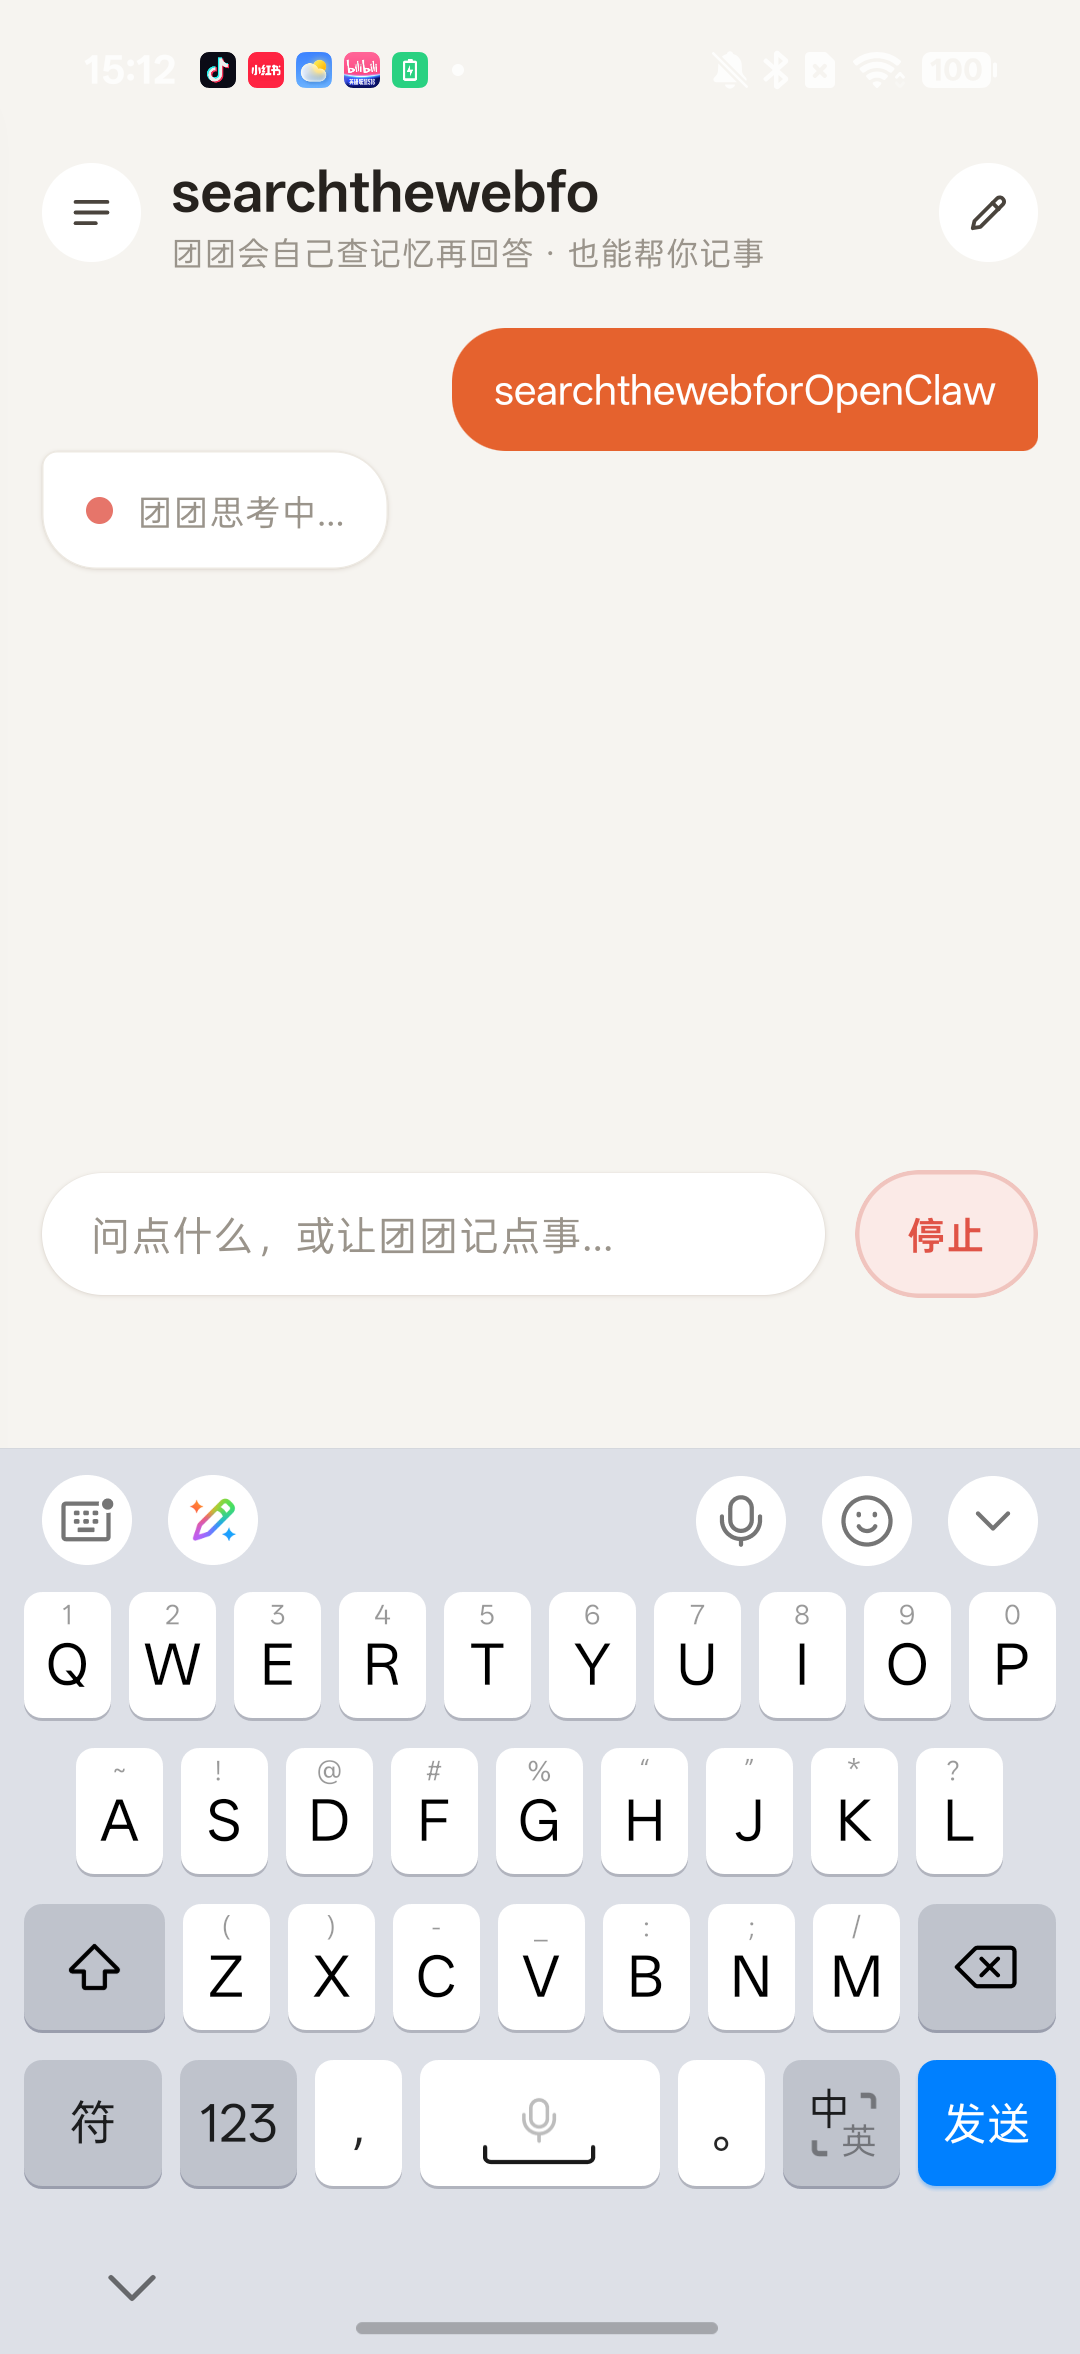
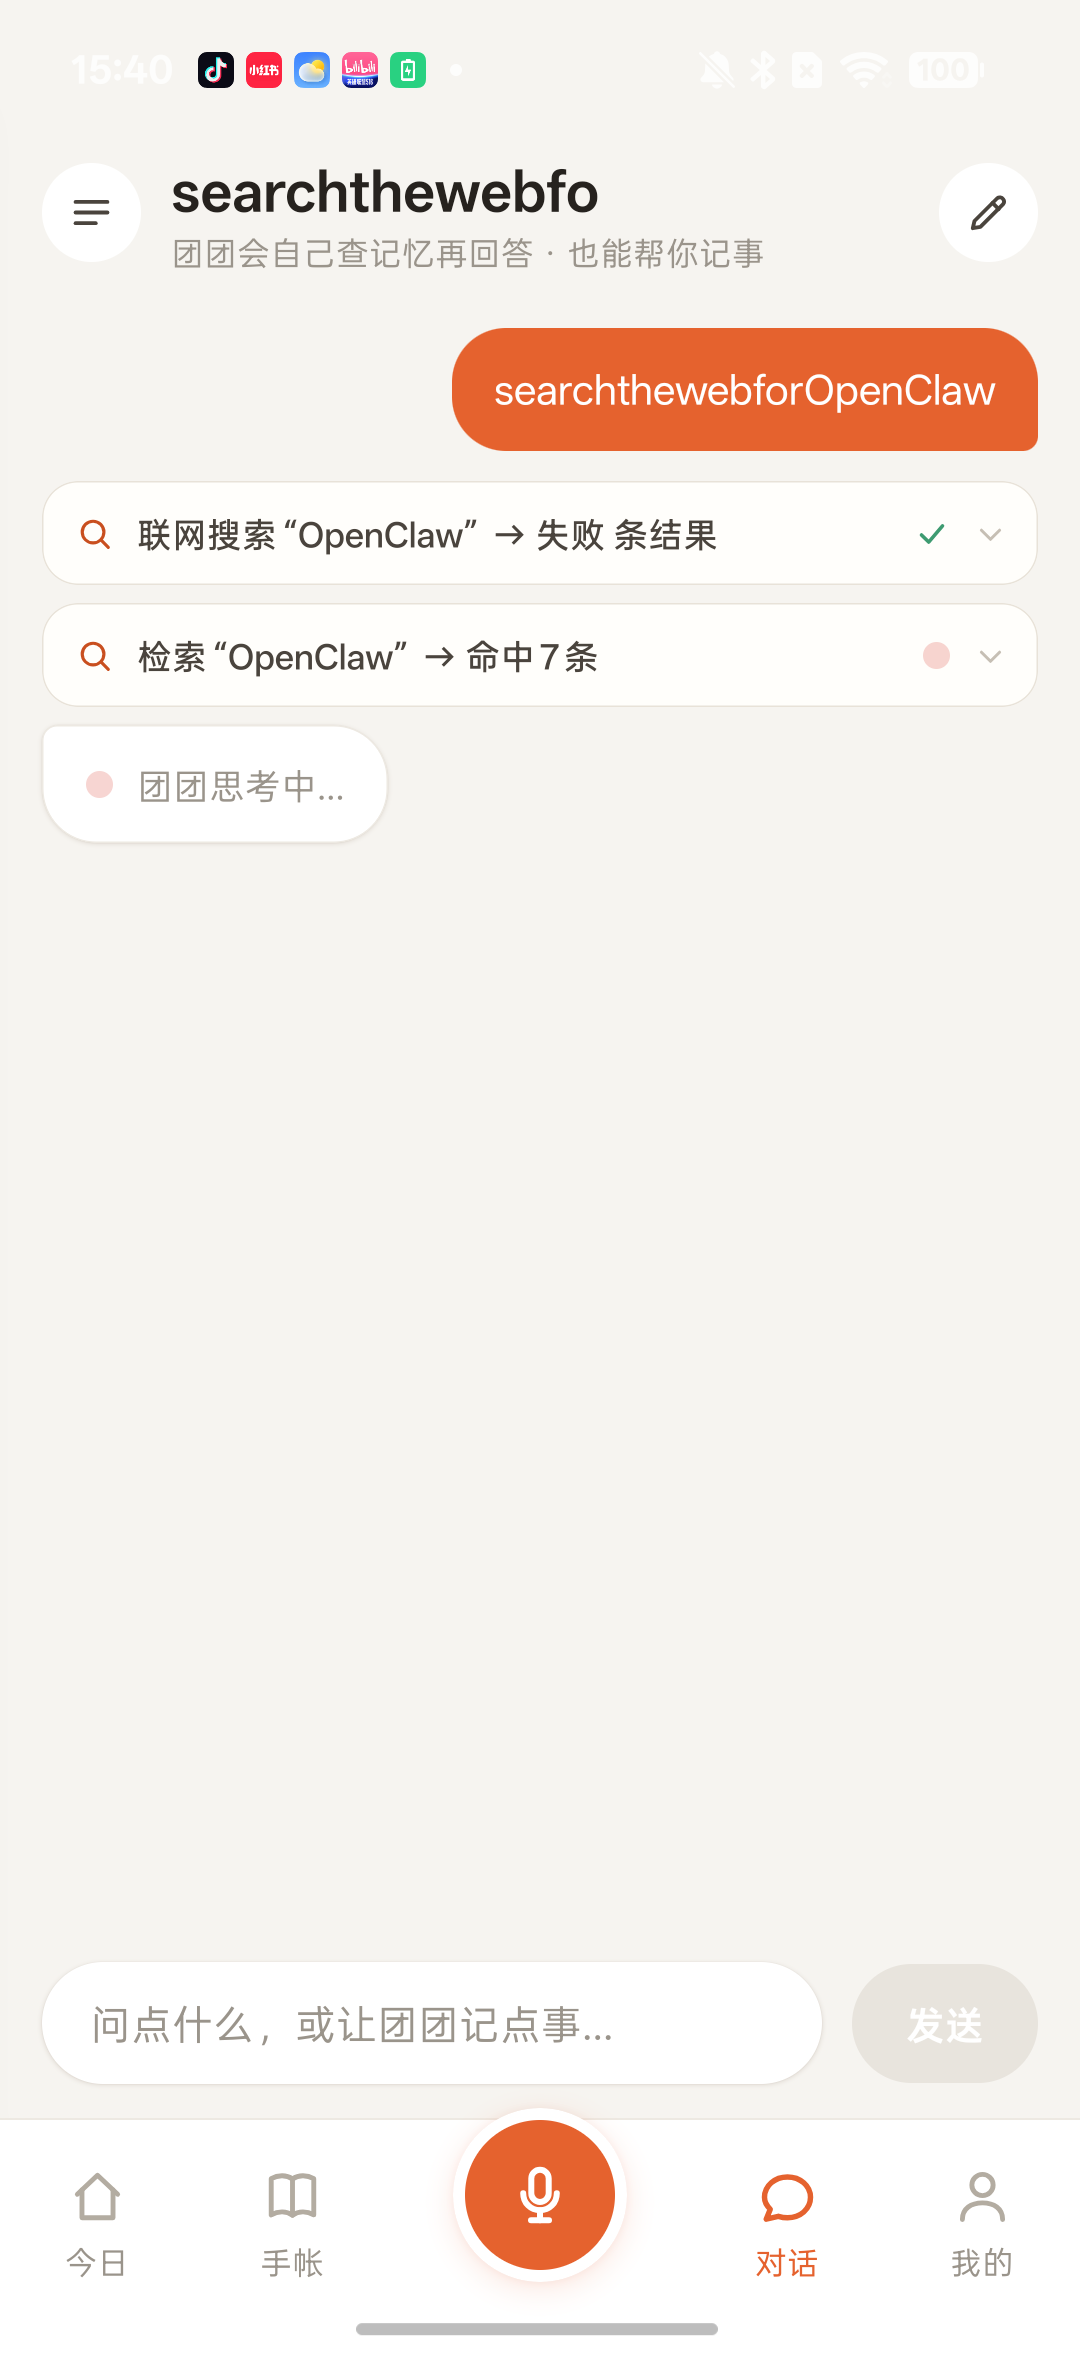
日常随笔手动「分拣归档」入口（阅读器/长按 ⋯ 菜单）
自动迁移在真机不可观测（OPPO 裁剪 RN 日志），加用户可控入口：
casual 笔记 ⋯ 菜单新增「分拣归档（约定→待办·学情→画像）」，
toast 反馈成功/失败。真机 r10-04 截图。

diff --git a/xinli-app/src/screens/Journal.js b/xinli-app/src/screens/Journal.js
@@ -6,7 +6,7 @@ import { Ic } from '../icons';
 import { T } from '../theme';
 import { useStore, setState, fmtDate } from '../store';
 import { writeMemoryFile, exportAll, ensureExportDir } from '../exporter';
-import { deleteJob, tidyMemory } from '../pipeline';
+import { deleteJob, tidyMemory, migrateLegacyCasual } from '../pipeline';
 
 /* 图标配色：不同文档类型的柔和底色（颜色即分组语义：橙=学习材料，紫=生活面，绿=小结） */
 const DOC_STYLE = {
@@ -180,6 +180,14 @@ export default function Journal({ toast, goAsk }) {
   const noteMenuSheet = (
     <ActionSheet visible={!!noteMenu} onClose={() => setNoteMenu(null)} title={noteMenu ? noteMenu.title : ''}
       options={noteMenu ? [
+        ...(noteMenu.type === 'casual' ? [{ icon: 'sync', label: '分拣归档（约定→待办 · 学情→画像）', onPress: () => {
+          setNoteMenu(null);
+          toast('分拣中…');
+          migrateLegacyCasual().then((ok) => {
+            setReader(null);
+            toast(ok ? '已分拣：约定进待办、学情进画像，笔记已归档' : '没有可分拣的日常笔记');
+          }).catch(() => toast('分拣失败，稍后再试'));
+        } }] : []),
         { icon: 'pencil', label: '重命名（改变归属）', onPress: () => setRename(noteMenu) },
         { icon: 'trash', label: '删除这份笔记', tone: 'danger', onPress: () => {
           const name = noteMenu.course;
